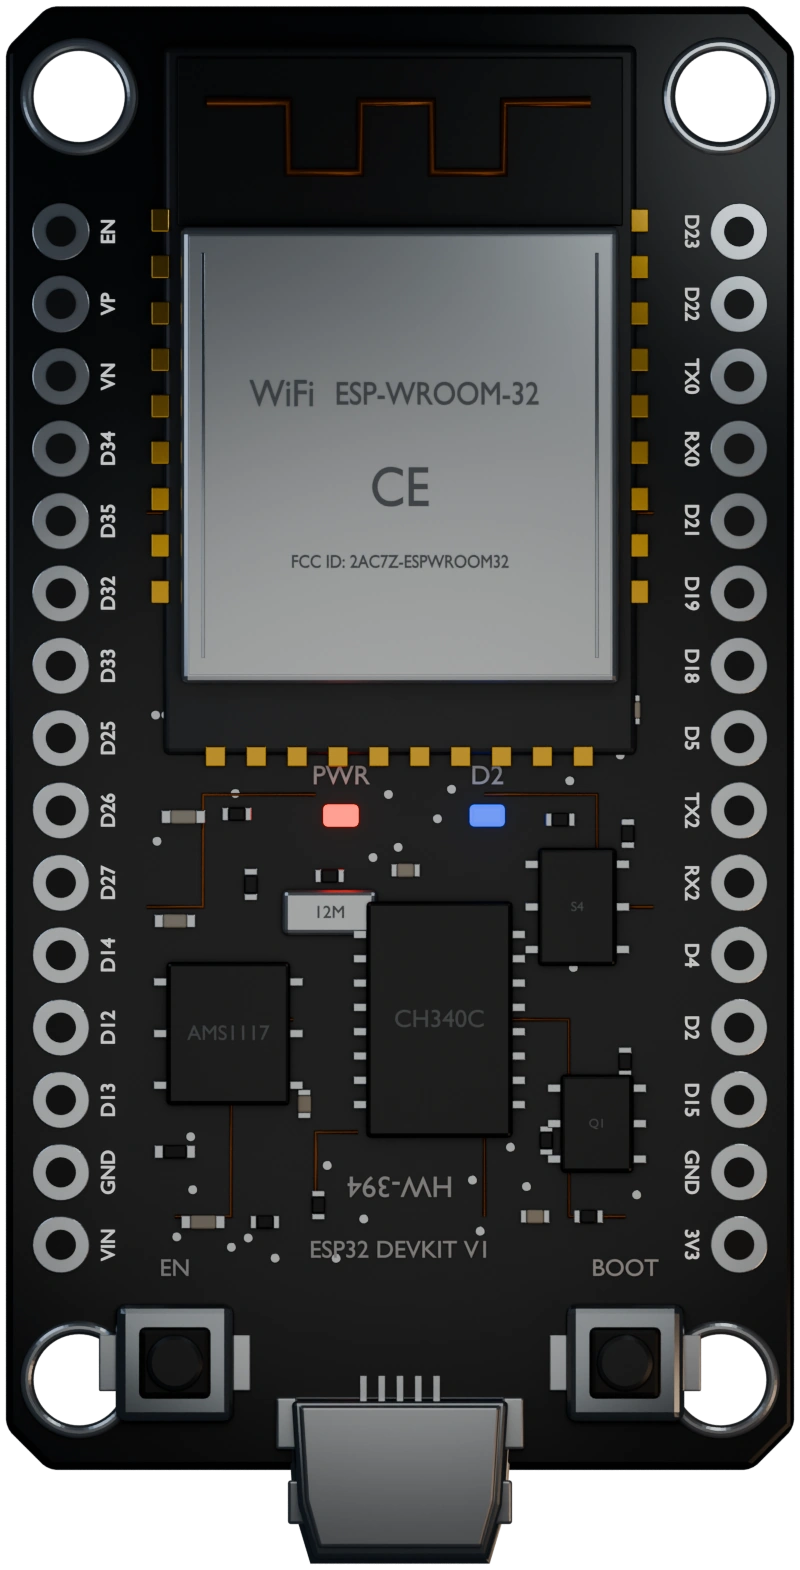
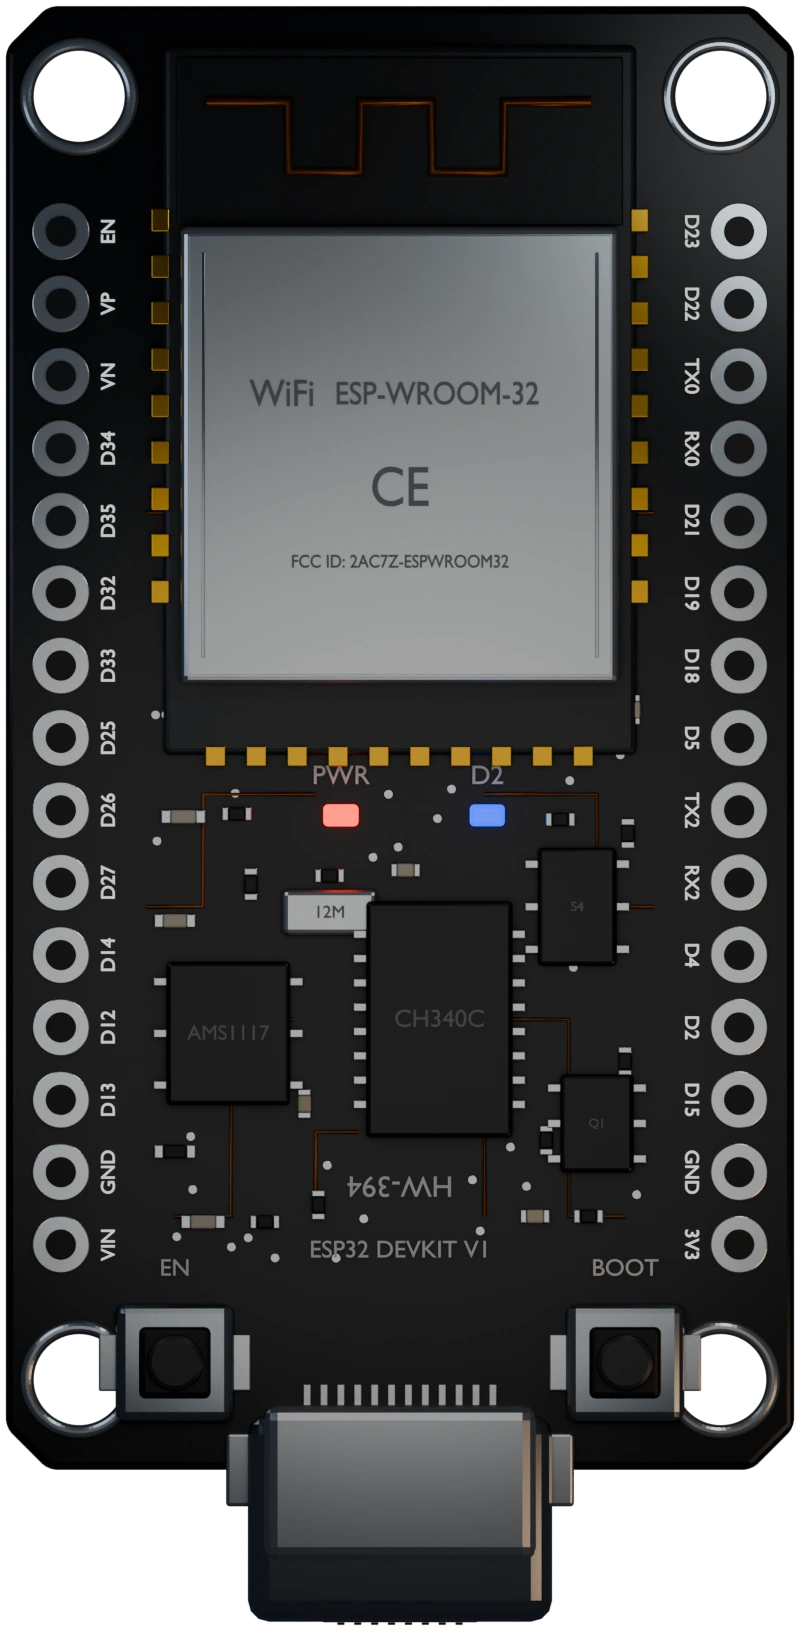
add the ESP32-S3-DevKitC-1 render and correct its dimensions
Brings in modelled renders for both boards and fixes a data error the
S3-DevKitC package surfaced: the profile carried 54 x 28 mm, which
matches no revision of that board. Espressif's v1.1 mechanical drawing
is 25.40 mm wide by 62.74 mm, so on a true-relative-scale diagram the
S3-DevKitC was drawing wider than the classic ESP-32D when it is in fact
the narrower board. `dimensionsMm` isn't read anywhere outside the
profile table, so correcting it is a pure accuracy fix.

Both renders are dimensionally trustworthy rather than merely
proportional: scaling each by its documented PCB width reproduces the
drawing's overall length to within 0.04 mm.

The controller scale now honours a height ceiling as well as the slot
width. The S3-DevKitC is 2.75x as tall as it is wide, so sizing purely
by width would have run it straight through the wiring-plan callout.

Also:
- The ESP-32D render is the corrected USB-C one; that board is USB-C, so
  its power callout reads USB-C again.
- The S3-DevKitC's USB terminal points at the UART port rather than the
  native-USB one, since that is the port this app's upload path drives.
- GPIO48's pin note said it drives the on-board RGB LED. That was the
  initial revision; v1.1 uses GPIO38, which the pin map already had.

Precache drops from 10110 KB to 9889 KB even with both renders replaced
by much higher-quality versions, because both ship as WebP.

diff --git a/src/components/BuildDiagram/PhysicalAssemblyDiagram.tsx b/src/components/BuildDiagram/PhysicalAssemblyDiagram.tsx
@@ -2,7 +2,7 @@ import type { ElectricalPlanSummary, OutputElectricalPlan } from '../../build/el
 import type { PhysicalBoardProfile } from '../../build/boardProfiles'
 import type { HardwareManifestItem } from '../../build/hardwareManifest'
 import { fuseBlockAllocations, type FuseBlockCircuitCount } from '../../build/powerDistribution'
-import devKitCBoardRender from '../../assets/boards/esp32-s3-devkitc-1.png'
+import devKitCBoardRender from '../../assets/boards/esp32-s3-devkitc-1.webp'
 import esp32DevKitV1BoardRender from '../../assets/boards/esp32-devkit-v1-30pin.webp'
 import microphoneRender from '../../assets/components/inmp441-breakout.png'
 import levelShifterRender from '../../assets/components/sn74ahct125n-dip14.png'
@@ -145,25 +145,29 @@ interface ControllerRenderSpec {
 type ControllerRender = ControllerRenderSpec & { x: number; y: number; width: number; height: number }
 
 const CONTROLLER_SPECS: Record<string, ControllerRenderSpec> = {
-  // 29.481 mm = 28 mm PCB over alpha bounds 10..387 of a 398px-wide render.
+  // Header geometry from the render package, independently checked here: 22 + 22
+  // rails on a 78.8px pitch sharing rows, rail centres symmetric about the image
+  // (45.400 + 754.600 = 800). 25.7215 mm = Espressif's 25.40 mm PCB width over
+  // alpha bounds 5..794 of an 800px render — and that scale reproduces the
+  // drawing's 70.74 mm overall length to 0.04 mm, so the model is dimensionally
+  // true, not just proportionally plausible.
   'espressif-esp32-s3-devkitc-1': {
     href: devKitCBoardRender,
-    sourceWidth: 398, sourceHeight: 922, imageWidthMm: 29.481,
-    leftPinX: 48, rightPinX: 351, firstPinY: 76.5, lastPinY: 795.5,
+    sourceWidth: 800, sourceHeight: 2199, imageWidthMm: 25.7215,
+    leftPinX: 45.400, rightPinX: 754.600, firstPinY: 45.783, lastPinY: 1700.583,
     pinsPerRail: 22, leftPrefix: 'j1', rightPrefix: 'j3',
     powerAnchors: { v3v3: 'j1-1', ground: 'j3-22' },
-    usbPoint: { x: 270, y: 875 },
+    // The UART port, not the native-USB one: that's the port this app's upload
+    // path drives, so it's the one a builder will have a cable in.
+    usbPoint: { x: 224.717, y: 2183.621 },
     shortLabel: 'ESP32-S3 DevKitC-1',
     usbLabel: 'USB-C',
   },
-  // Header geometry supplied with the render package and independently checked:
-  // 15 + 15 rails on a 72.367px pitch sharing the same rows, first pad centre
-  // y=231.57 and last y=1244.71. The rail centres are symmetric about the
-  // image (60.879 + 739.121 = 800 exactly).
-  // 28.354 mm = 28 mm PCB over alpha bounds 5..794 of an 800px-wide render.
+  // 15 + 15 rails on a 72.367px pitch sharing rows, rail centres symmetric
+  // (60.879 + 739.121 = 800). 28.354 mm = 28 mm PCB over alpha bounds 5..794.
   'esp32-devkit-v1-30pin-esp32d': {
     href: esp32DevKitV1BoardRender,
-    sourceWidth: 800, sourceHeight: 1570, imageWidthMm: 28.354,
+    sourceWidth: 800, sourceHeight: 1631, imageWidthMm: 28.354,
     leftPinX: 60.879, rightPinX: 739.121, firstPinY: 231.571, lastPinY: 1244.714,
     pinsPerRail: 15, leftPrefix: 'left', rightPrefix: 'right',
     // Both rails carry a GND pad (left-14 and right-14) on the same net; the
@@ -171,9 +175,9 @@ const CONTROLLER_SPECS: Record<string, ControllerRenderSpec> = {
     // the right rail they would be adjacent pads, close enough for the ground
     // symbol's bars to run into the 3V3 stub.
     powerAnchors: { v3v3: 'right-15', ground: 'left-14' },
-    usbPoint: { x: 400, y: 1552 },
+    usbPoint: { x: 400, y: 1612.646 },
     shortLabel: 'ESP32 DevKit v1',
-    usbLabel: 'Micro-USB',
+    usbLabel: 'USB-C',
   },
 }
 
@@ -191,8 +195,21 @@ const CONTROLLER_SPECS: Record<string, ControllerRenderSpec> = {
 const CONTROLLER_SLOT_X = 74
 const CONTROLLER_SLOT_WIDTH = 184
 const CONTROLLER_BASELINE_Y = 530
-const CONTROLLER_UNITS_PER_MM = CONTROLLER_SLOT_WIDTH
-  / Math.max(...Object.values(CONTROLLER_SPECS).map((spec) => spec.imageWidthMm))
+/** Ceiling for the column: the wiring-plan callout ends at y=96. */
+const CONTROLLER_SLOT_TOP_Y = 104
+const CONTROLLER_SLOT_HEIGHT = CONTROLLER_BASELINE_Y - CONTROLLER_SLOT_TOP_Y
+
+/**
+ * One scale for all boards, set by whichever runs out of room first. The widest
+ * board can't exceed the slot and the tallest can't reach the callout — the
+ * S3-DevKitC is 2.75x as tall as it is wide, so at width-only scale it would
+ * have run straight through the callout.
+ */
+const CONTROLLER_UNITS_PER_MM = Math.min(
+  CONTROLLER_SLOT_WIDTH / Math.max(...Object.values(CONTROLLER_SPECS).map((spec) => spec.imageWidthMm)),
+  CONTROLLER_SLOT_HEIGHT / Math.max(...Object.values(CONTROLLER_SPECS)
+    .map((spec) => spec.imageWidthMm * (spec.sourceHeight / spec.sourceWidth))),
+)
 
 const CONTROLLER_RENDERS: Record<string, ControllerRender> = Object.fromEntries(
   Object.entries(CONTROLLER_SPECS).map(([id, spec]) => {

diff --git a/src/components/BuildDiagram/__tests__/BuildDiagramWorkspace.test.tsx b/src/components/BuildDiagram/__tests__/BuildDiagramWorkspace.test.tsx
@@ -133,6 +133,39 @@ describe('BuildDiagramWorkspace', () => {
     expect(getByText('Exact board: confirmed', { selector: 'li' })).toBeTruthy()
   })
 
+  it('sizes boards against each other by their real dimensions', () => {
+    const boardImage = () => {
+      const { container, unmount } = render(<BuildDiagramWorkspace />)
+      const image = container.querySelector('svg[data-build-export="current-view"] [data-controller-render] image')!
+      const box = {
+        width: Number(image.getAttribute('width')),
+        height: Number(image.getAttribute('height')),
+        bottom: Number(image.getAttribute('y')) + Number(image.getAttribute('height')),
+      }
+      unmount()
+      return box
+    }
+    selectEsp32DevKitV1()
+    const esp32d = boardImage()
+    useUploadStore.setState({ selectedFqbn: 'esp32:esp32:esp32s3' })
+    selectDevKit()
+    const devKitC = boardImage()
+
+    // The ESP-32D's PCB is 28.0 mm across, the S3-DevKitC's 25.4 mm, so the
+    // classic board must draw *wider* — it used to be the other way round,
+    // because the profile carried a 28 mm width that matched no revision.
+    expect(esp32d.width).toBeGreaterThan(devKitC.width)
+    expect(esp32d.width / devKitC.width).toBeCloseTo(28.0 / 25.4, 2)
+    // ...and shorter, since it is the physically shorter board.
+    expect(esp32d.height).toBeLessThan(devKitC.height)
+    // Both stay inside the controller column and share the baseline.
+    for (const box of [esp32d, devKitC]) {
+      expect(box.width).toBeLessThanOrEqual(184)
+      expect(box.height).toBeLessThanOrEqual(426)
+      expect(box.bottom).toBeCloseTo(530, 4)
+    }
+  })
+
   it('lands ESP-32D connections on that board render’s own header pads', () => {
     const mic = microphoneNode()
     // The pins a Microphone dropped on this board actually gets — the S3
@@ -162,16 +195,11 @@ describe('BuildDiagramWorkspace', () => {
     const rails = new Set(terminals.map((terminal) => terminal.getAttribute('cx')))
     expect(rails.size).toBeLessThanOrEqual(3) // two rails plus the USB inlet
 
-    // Boards are drawn at true relative scale, so this one is narrower than the
-    // 28 mm-wide-but-more-generously-cropped DevKitC rather than both being
-    // stretched to a fixed slot width. Bottom edges share a baseline so every
-    // render's USB end sits at the same height.
-    const width = Number(image.getAttribute('width'))
-    expect(width).toBeLessThan(184)
-    expect(width).toBeGreaterThan(150)
     // The box keeps the artwork's exact aspect: any mismatch letterboxes the
-    // render inside it and walks every pad off its dot.
-    expect(height).toBeCloseTo(width * (1570 / 800), 4)
+    // render inside it and walks every pad off its dot. Bottom edges share a
+    // baseline so every render's USB end sits at the same height.
+    const width = Number(image.getAttribute('width'))
+    expect(height).toBeCloseTo(width * (1631 / 800), 4)
     expect(top + height).toBeCloseTo(530, 4)
 
     // Both supplied rails need a visible stub, and each has to point away from
@@ -190,8 +218,8 @@ describe('BuildDiagramWorkspace', () => {
     // on one of the 15 pad rows. Restated here from the render package's own
     // measured geometry rather than read back from the spec, so an accidental
     // edit to those numbers fails instead of quietly moving every dot: the
-    // rows run 231.571..1244.714 in the artwork's 1570-tall space.
-    const rowAt = (index: number) => top + (((231.571 + (index * (1244.714 - 231.571) / 14)) / 1570) * height)
+    // rows run 231.571..1244.714 in the artwork's 1631-tall space.
+    const rowAt = (index: number) => top + (((231.571 + (index * (1244.714 - 231.571) / 14)) / 1631) * height)
     const rows = Array.from({ length: 15 }, (_, index) => rowAt(index))
     for (const terminal of terminals) {
       const cy = Number(terminal.getAttribute('cy'))

diff --git a/src/build/boardProfiles.ts b/src/build/boardProfiles.ts
@@ -149,7 +149,7 @@ const DEVKITC_PINS: PhysicalBoardPinProfile[] = [
   pin('j3-13', 'GPIO35', 'gpio', 'j3-13', undefined, 35, 'Unavailable on octal flash/PSRAM variants'),
   pin('j3-14', 'GPIO0 / BOOT', 'gpio', 'j3-14', undefined, 0, 'Boot-strapping pin'),
   pin('j3-15', 'GPIO45', 'gpio', 'j3-15', undefined, 45, 'Strapping pin'),
-  pin('j3-16', 'GPIO48', 'gpio', 'j3-16', undefined, 48, 'Also drives the on-board RGB LED'),
+  pin('j3-16', 'GPIO48', 'gpio', 'j3-16', undefined, 48, 'Drove the on-board RGB LED on the initial revision; v1.1 uses GPIO38'),
   pin('j3-17', 'GPIO47', 'gpio', 'j3-17', undefined, 47),
   pin('j3-18', 'GPIO21', 'gpio', 'j3-18', undefined, 21),
   pin('j3-19', 'USB_D+ / GPIO20', 'gpio', 'j3-19', undefined, 20, 'Native USB D+'),
@@ -330,10 +330,13 @@ export const BOARD_PROFILES: PhysicalBoardProfile[] = [
     label: 'Espressif ESP32-S3-DevKitC-1',
     manufacturer: 'Espressif',
     model: 'ESP32-S3-DevKitC-1',
-    revision: 'manufacturer profile',
+    revision: 'v1.1, ESP32-S3-WROOM-1-N8R8',
     targetFamilies: ['esp32-s3'],
     compatibleFqbns: ['esp32:esp32:esp32s3'],
-    dimensionsMm: { width: 54, height: 28 },
+    // Espressif's v1.1 mechanical drawing: 25.40 mm wide, 62.74 mm to the
+    // connector mounting edge. The previous 54 x 28 matched no revision and
+    // would have mis-sized the board on a true-relative-scale diagram.
+    dimensionsMm: { width: 62.74, height: 25.4 },
     confidence: 'manufacturer-verified',
     moduleSilk: 'ESP32-S3-WROOM-1',
     previewSvg: boardSvg('Espressif DevKitC-1', '#58d68d', 'USB', 'Manufacturer verified'),
